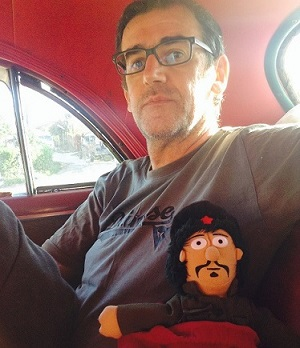
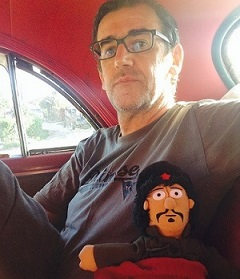
picture cuba

diff --git a/about.md b/about.md
@@ -3,7 +3,7 @@ layout: page
 title: About
 permalink: /about
 ---
-<img style="float: right;" src="assets/luigi_che_small.jpg">
+<img style="float: right; padding-left: 1.5em; padding-bottom: 1.0em;" src="assets/luigi_che_small.jpg">
 
 I work as a scientific software engineer at my own company [datiaperti](https://www.datiaperti.it) based in Rome, Italy. Before taking the leap from being an employee to being self-employed, I worked as a software engineer in many public and private organizations in Italy, Switzerland and Germany. In Germany I worked at the [Fraunhofer Institute for Intelligent Analysis and Information Systems](https://www.iais.fraunhofer.de/en.html) in EU and German funded research projects and industry projects related to Semantic Web, Machine Learning and Big Data technologies. In Switzerland, I worked as a research associate and software engineer in two FP7 research projects about data integration using Semantic Web technologies at the E-Government Institute of the [Bern University of Applied Sciences](https://www.bfh.ch/en/). Before moving abroad I worked in Italy as a consultant in software development projects at various multinational companies such as Ericsson, Marconi Communications, Accenture, and Italian government institutions. I hold an M.Sc. in Physics from the [Sapienza University of Rome](https://www.phys.uniroma1.it/fisica/en) with a thesis on Atmospheric Physics and Laser Radar Remote Sensing under the supervision of [Prof. Giorgio Fiocco](https://en.wikipedia.org/wiki/Giorgio_Fiocco). I have co-authored papers on Semantic Web, E-Government and Remote Sensing. My main interests are computational physics, artificial intelligence, algorithms, computer vision, open source software development and open data.
 
